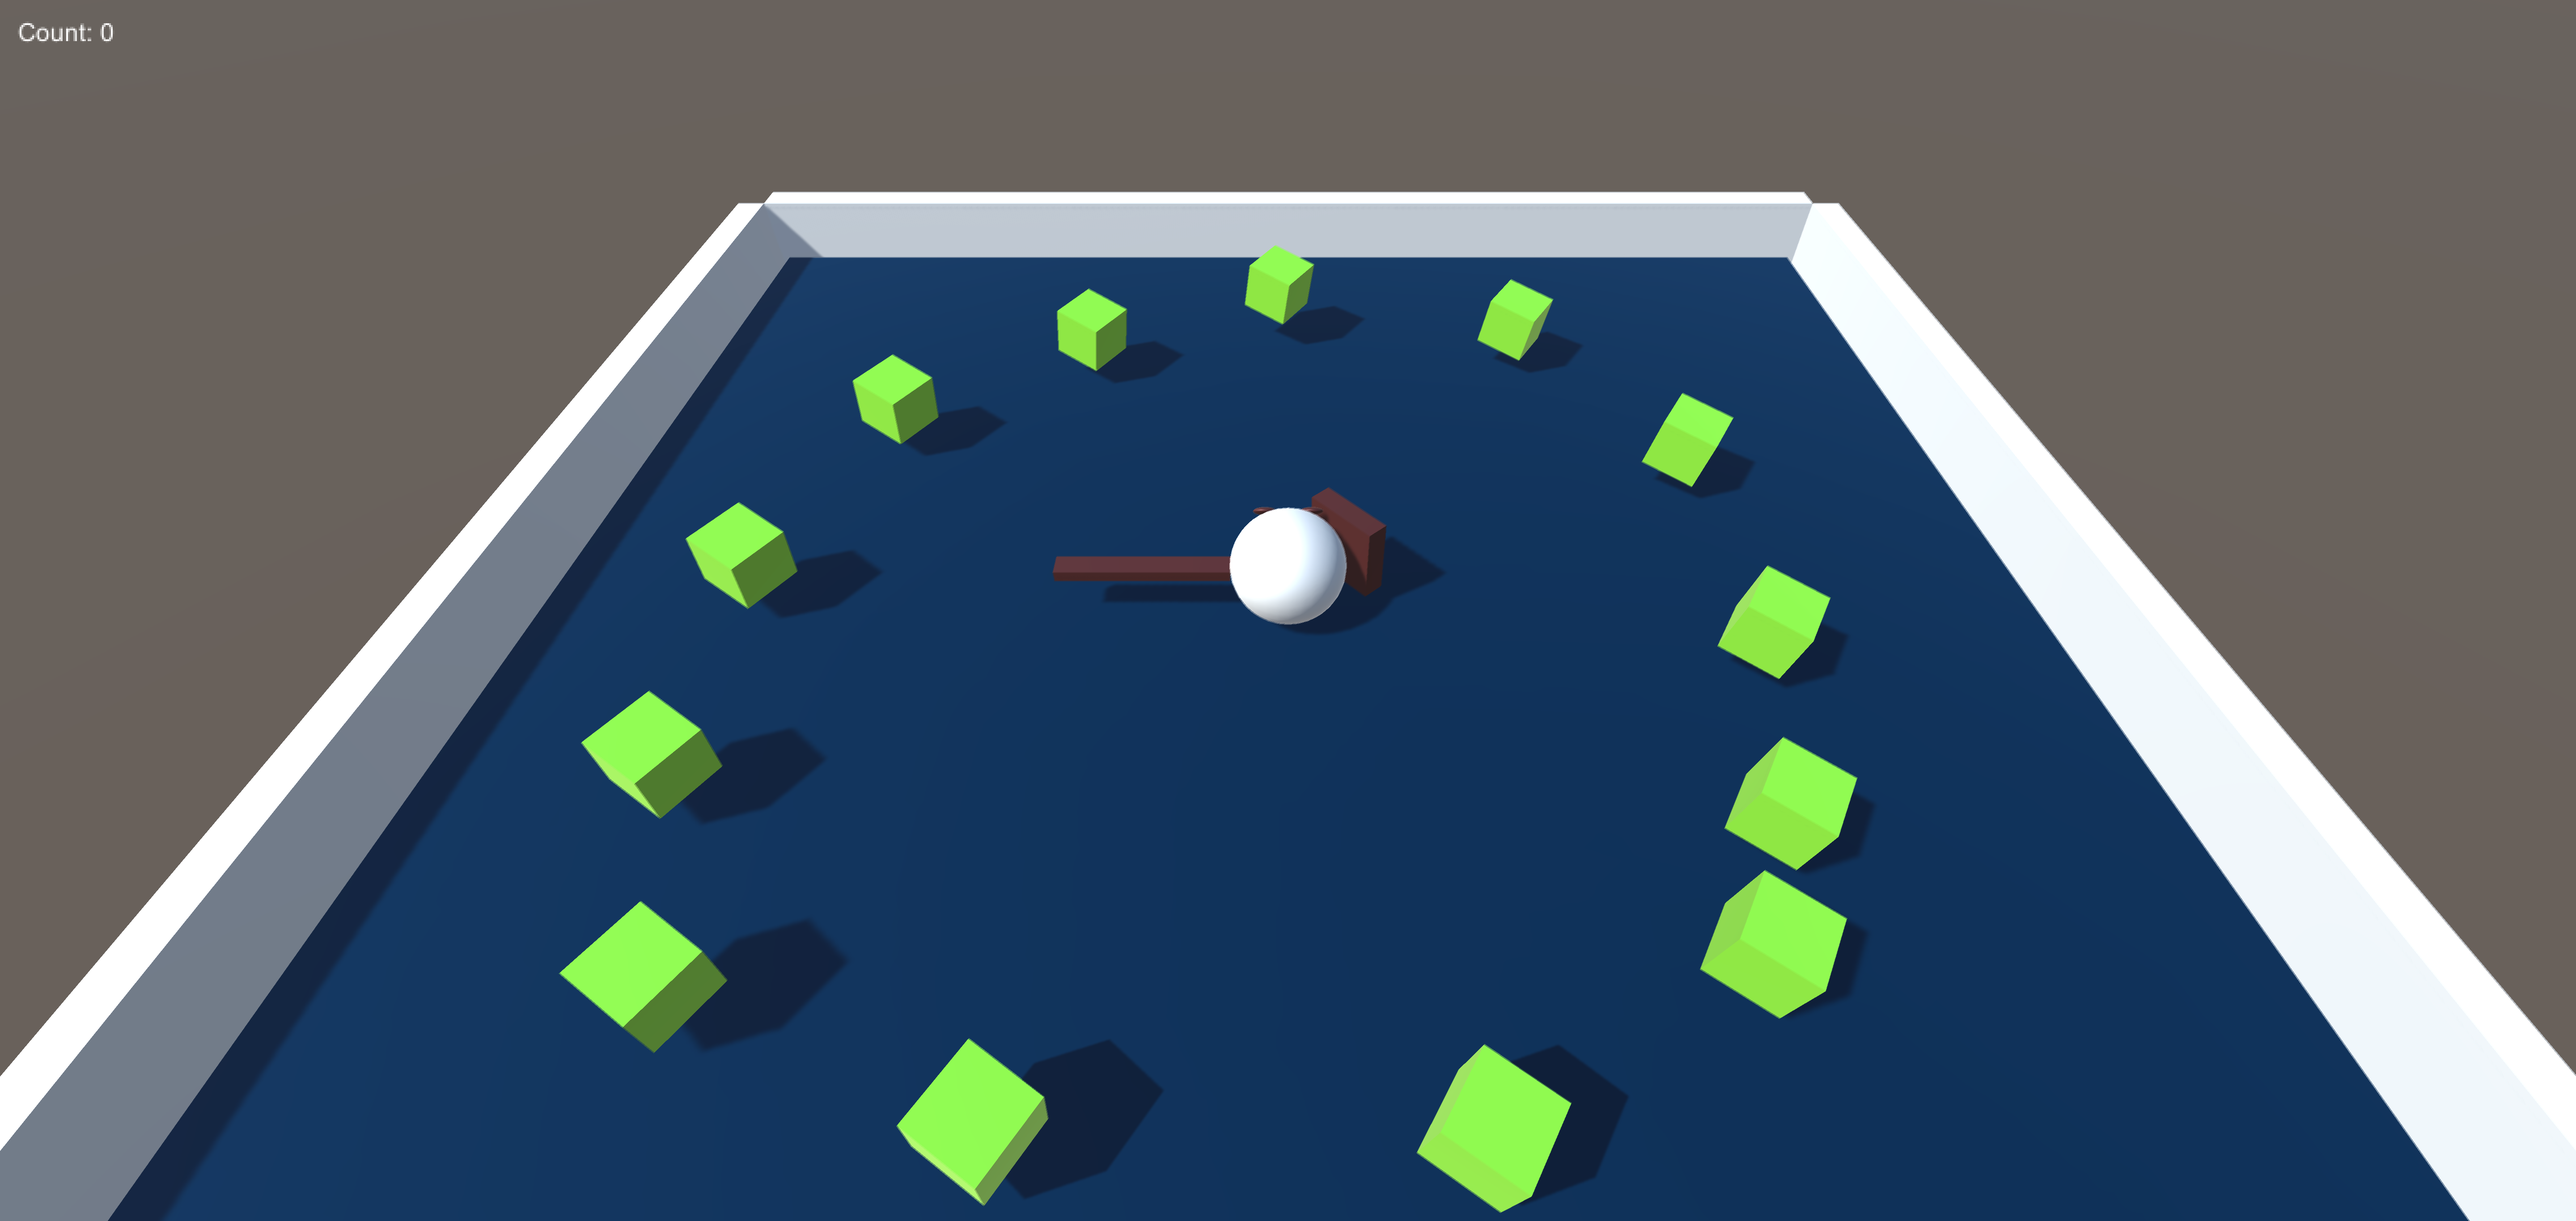
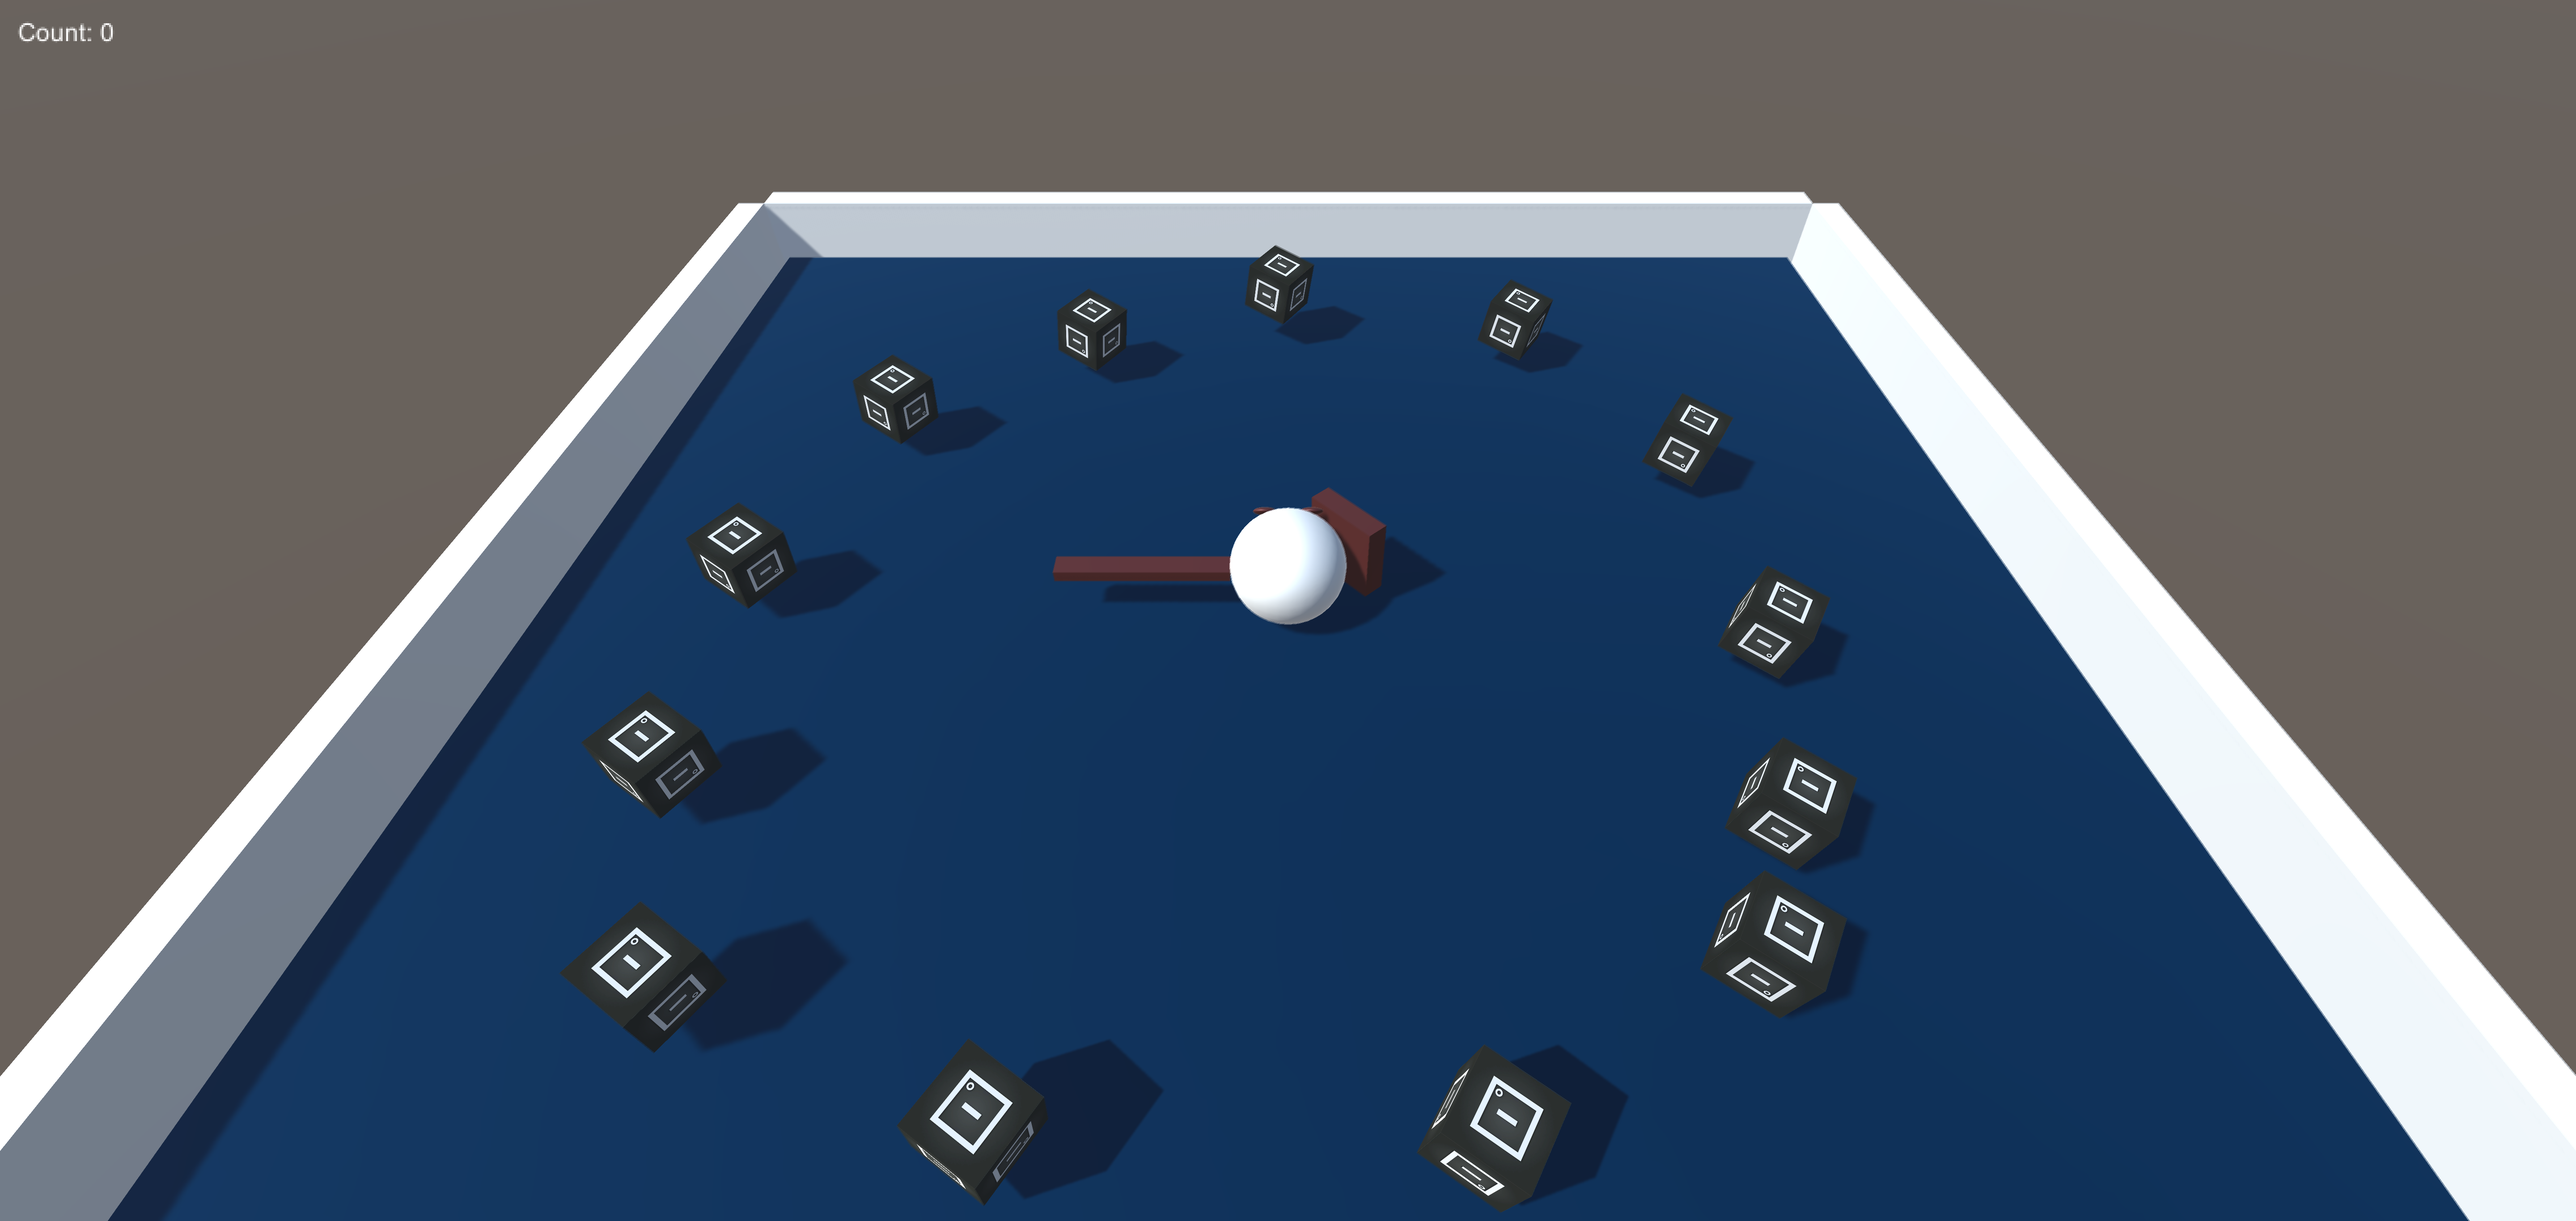
Fix Spatial OS Cube Texture

diff --git a/Assets/Scripts/Resetter.cs b/Assets/Scripts/Resetter.cs
@@ -17,12 +17,13 @@ public class Resetter : MonoBehaviour {
 	}
 
 	// Update is called once per frame
-	void Update () {
+	void FixedUpdate () {
 		timeLeft -= Time.deltaTime;
 
 		if(timeLeft < 0) {
 				gameObject.GetComponent<Collider>().enabled = true;
 				gameObject.transform.localScale = defaultScale;
+				gameObject.GetComponent<Rigidbody>().velocity = new Vector3(0, 0, 0);
 				transform.position = defaultPos;
 				timeLeft = roundTime;
 		}
